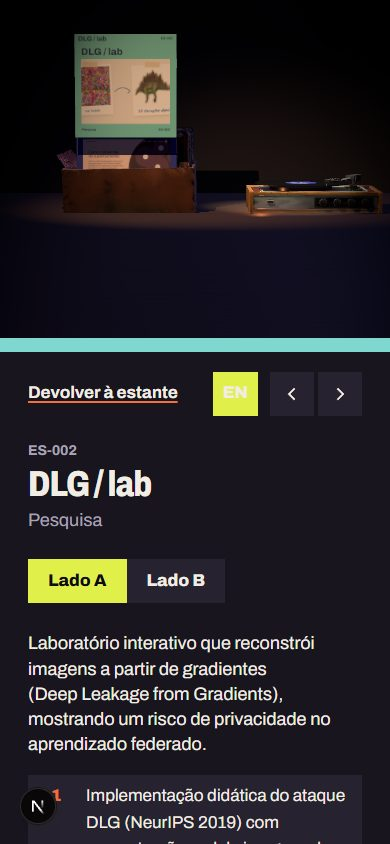
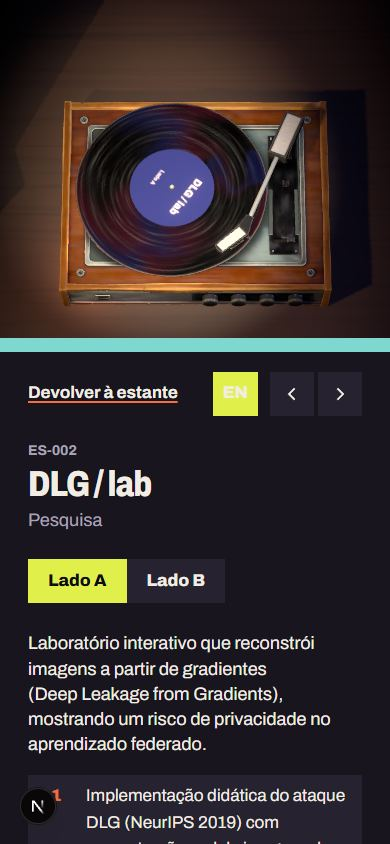
Overhead now-playing view, slower spin, cleaner return
- Once the vinyl lands and spins, the camera rises over the turntable and
  frames it beside the liner notes (above the sheet on phones); choosing
  another record brings it back down for the swap
- Record spins at 1.7 rad/s so the label stays readable
- After a return the vinyl rides hidden behind its sleeve, so lifting the
  sleeve to browse no longer drags it through the cover; a still-browsed
  record ends its return already pulled up in its slot

diff --git a/src/ui/records/ShelfScene.tsx b/src/ui/records/ShelfScene.tsx
@@ -31,7 +31,21 @@ const stage = {
   crateFront: 0.4,
   crateTop: 0.45,
   platter: new THREE.Vector3(DECK.x, 0.3, DECK.z),
+  /** The turntable's bounds in the scene, for the overhead "now playing" view. */
+  deck: new THREE.Box3(
+    new THREE.Vector3(DECK.x - 0.7, 0, DECK.z - 0.5),
+    new THREE.Vector3(DECK.x + 0.7, 0.3, DECK.z + 0.5),
+  ),
 };
+
+/**
+ * Turntable speed, rad/s. Slower than a real 33⅓ rpm (3.5 rad/s): about 16 rpm,
+ * so it still reads as turning but the label stays readable.
+ */
+const SPIN = 1.7;
+
+/** When the vinyl has landed and spins (the play timeline's last phase ends at 2.3s). */
+const SPINNING_AFTER = 2.5;
 
 const FLAT = new THREE.Quaternion();
 const FLIPPED = new THREE.Quaternion().setFromEuler(new THREE.Euler(Math.PI, 0, 0));
@@ -251,6 +265,9 @@ function Record({
     const discInLiftedQ = liftedQ.clone().multiply(UPRIGHT);
     // On the way back the sleeve comes down straight into its own slot.
     const aboveRest = rest.position.clone().add(new THREE.Vector3(0, 0.78, 0));
+    // Pulled up for a look: slid up along its own lean, within its slot (lifting straight up
+    // would tip a leaning sleeve forward through the records in front of it).
+    const browsePos = rest.position.clone().add(new THREE.Vector3(0, 0.36, 0).applyQuaternion(rest.quaternion));
     return {
       restQ,
       liftedPos,
@@ -261,6 +278,7 @@ function Record({
       outPos,
       discInLiftedQ,
       aboveRest,
+      browsePos,
     };
   }, [rest]);
   const scratch = useMemo(() => ({ v: new THREE.Vector3(), q: new THREE.Quaternion() }), []);
@@ -294,7 +312,9 @@ function Record({
       s.position.lerpVectors(poses.displayPos, poses.liftedPos, r1);
       s.quaternion.slerpQuaternions(poses.displayQ, poses.liftedQ, r1);
       if (r4 > 0) {
-        s.position.lerpVectors(poses.liftedPos, poses.aboveRest, r4).lerp(rest.position, r5);
+        s.position
+          .lerpVectors(poses.liftedPos, poses.aboveRest, r4)
+          .lerp(hovered ? poses.browsePos : rest.position, r5);
         s.quaternion.slerpQuaternions(poses.liftedQ, poses.restQ, r4);
       }
 
@@ -306,12 +326,8 @@ function Record({
       }
       if (t > 2.3) {
         returnAt.current = null;
-        // Home: the vinyl rides inside the sleeve, hidden, so it doesn't reappear and fly in.
-        if (d) {
-          d.position.copy(s.position);
-          d.quaternion.copy(s.quaternion).multiply(UPRIGHT);
-          d.visible = false;
-        }
+        // Home: hidden behind the sleeve; the resting branch keeps it there.
+        if (d) d.visible = false;
       }
       frame.invalidate();
       return;
@@ -320,20 +336,30 @@ function Record({
     if (!playing) {
       // Back in the crate; a hovered record is pulled half out so its cover shows.
       scratch.v.copy(rest.position);
-      // Slid up along its own lean, within its slot, so the records in front still hide its
-      // lower half (lifting straight up would tip a leaning sleeve forward through them).
-      if (hovered) scratch.v.add(new THREE.Vector3(0, 0.36, 0).applyQuaternion(rest.quaternion));
+      if (hovered) scratch.v.copy(poses.browsePos);
       const k = reducedMotion ? 1 : damp(delta, hovered ? 12 : 7);
       s.position.lerp(scratch.v, k);
       s.quaternion.slerp(poses.restQ, k);
       let moving = s.position.distanceTo(scratch.v) > EPS || s.quaternion.angleTo(poses.restQ) > EPS;
       if (d) {
-        // The vinyl slips back into its sleeve before it disappears.
-        const kd = reducedMotion ? 1 : damp(delta, 9);
-        d.position.lerp(s.position, kd);
-        d.quaternion.slerp(scratch.q.copy(s.quaternion).multiply(UPRIGHT), kd);
-        d.visible = d.position.distanceTo(s.position) > 0.03;
-        moving ||= d.visible;
+        // The vinyl's place is just behind the sleeve's back, hidden by it.
+        scratch.q.copy(s.quaternion);
+        scratch.v.copy(BEHIND_SLEEVE).applyQuaternion(scratch.q).add(s.position);
+        scratch.q.multiply(UPRIGHT);
+        if (d.visible && !reducedMotion) {
+          // Put back before it ever landed (play cancelled mid-flight): it eases home, then hides.
+          const kd = damp(delta, 9);
+          d.position.lerp(scratch.v, kd);
+          d.quaternion.slerp(scratch.q, kd);
+          d.visible = d.position.distanceTo(scratch.v) > 0.03;
+          moving ||= d.visible;
+        } else {
+          // Already home: it rides along with the sleeve, out of sight, so lifting the
+          // sleeve to browse never drags a lagging vinyl through its cover.
+          d.position.copy(scratch.v);
+          d.quaternion.copy(scratch.q);
+          d.visible = false;
+        }
       }
       if (moving) frame.invalidate();
       else if (withDisc) onSettled(record.id);
@@ -366,7 +392,7 @@ function Record({
       }
       d.visible = t > 0.5;
     }
-    if (spinner.current && p3 >= 1 && !reducedMotion) spinner.current.rotation.y -= step(delta) * 3.5; // 33⅓ rpm
+    if (spinner.current && p3 >= 1 && !reducedMotion) spinner.current.rotation.y -= step(delta) * SPIN;
     // A playing record keeps turning, so the loop runs while it plays (and stops when it is put away).
     if (!reducedMotion || t < 0.1) frame.invalidate();
   });
@@ -573,6 +599,8 @@ function Deck({ playing, reducedMotion }: { playing: boolean; reducedMotion: boo
   useLayoutEffect(() => {
     parts.current = { pivot: deck.pivot };
     stage.platter.set(DECK.x, deck.platterY, DECK.z);
+    deck.scene.updateWorldMatrix(true, true);
+    stage.deck.setFromObject(deck.scene);
     vinyl.geometry = deck.vinylGeometry;
     vinyl.material = deck.vinylMaterial as THREE.Material;
     vinyl.half = deck.vinylHalf;
@@ -704,6 +732,8 @@ function CameraRig({
   const look = useRef(new THREE.Vector3(0, 0.5, 0));
   const goalPos = useRef(new THREE.Vector3());
   const goalLook = useRef(new THREE.Vector3());
+  /** Which record the camera last saw chosen, and when: it waits for the vinyl to land. */
+  const chosen = useRef<{ id: string | null; at: number }>({ id: null, at: 0 });
 
   useEffect(() => {
     const onMove = (e: PointerEvent) => {
@@ -721,7 +751,25 @@ function CameraRig({
     const wide = aspect >= 1.2;
     const pos = goalPos.current;
     const target = goalLook.current;
-    if (selected) {
+    if (selected !== chosen.current.id) chosen.current = { id: selected, at: frame.clock.elapsedTime };
+    const spinning =
+      selected !== null && (reducedMotion || frame.clock.elapsedTime - chosen.current.at > SPINNING_AFTER);
+    let speed = 2.4;
+    if (spinning) {
+      // Once the record turns, rise over the turntable and look down on it, framed in the
+      // part of the screen the notes leave free (left of the panel, or above the sheet).
+      const c = stage.deck.getCenter(new THREE.Vector3());
+      const s = stage.deck.getSize(new THREE.Vector3());
+      const freeW = panel.side === "right" ? 1 - panel.share : 1;
+      const freeH = panel.side === "bottom" ? 1 - panel.share : 1;
+      const tilt = 0.3; // a little toward the room, so it reads as a turntable and not a plan
+      const h = Math.max((s.x * 1.3) / (2 * tan * aspect * freeW), (s.z * 1.45) / (2 * tan * freeH));
+      const dx = panel.side === "right" ? (2 * h * tan * aspect * panel.share) / 2 : 0;
+      const dz = panel.side === "bottom" ? (2 * h * tan * panel.share) / 2 : 0;
+      target.set(c.x + dx, c.y, c.z + dz);
+      pos.set(c.x + dx, c.y + h, c.z + dz + h * tilt);
+      speed = 1.7;
+    } else if (selected) {
       // Frame the crate front and the deck in the part of the screen the notes leave free.
       const free = panel.side === "right" ? 1 - panel.share : 1;
       const z = Math.max(
@@ -747,7 +795,7 @@ function CameraRig({
         pos.y -= pointer.current.y * 0.06;
       }
     }
-    const k = reducedMotion ? 1 : damp(delta, 2.4);
+    const k = reducedMotion ? 1 : damp(delta, speed);
     camera.position.lerp(pos, k);
     // Fog fades the room behind the stage, measured from wherever the camera is
     // (a phone frames the scene from much further back).
@@ -759,7 +807,8 @@ function CameraRig({
     }
     look.current.lerp(target, k);
     camera.lookAt(look.current);
-    if (camera.position.distanceTo(pos) > 2e-3 || look.current.distanceTo(target) > 2e-3) frame.invalidate();
+    const waiting = selected !== null && !spinning;
+    if (waiting || camera.position.distanceTo(pos) > 2e-3 || look.current.distanceTo(target) > 2e-3) frame.invalidate();
   });
   return null;
 }

diff --git a/DESIGN.md b/DESIGN.md
@@ -118,7 +118,7 @@ Seven sleeve colourways (ink, seafoam, orange, lilac, lime, paper, graphite), ea
 - **In the crate:** the scan's block of LPs is cut out of the mesh offline (triangles right of the Ellington sleeve, inside the walls and above the floor), so the crate holds only our sleeves plus the scanned "Mood Ellington" sleeve leaning against the left wall. Our sleeves stand toward the front and a little right of centre.
 - **Turntable:** starts empty. The model's black platter disc is recoloured as a dark felt mat, so the empty platter doesn't read as a hole.
 - **Overview (desktop):** intro top-left, crate centred-right and turned toward the deck, deck at the right. The camera looks down from above, so the sleeves (standing low in the crate, each a little further back and higher) show their title strips like a crate you flip through. It follows the pointer slightly.
-- **Playing:** the liner notes take 44vw on the right. The camera frames the crate (with the played sleeve standing tall in it) and the spinning deck in the free part.
+- **Playing:** the liner notes take 44vw on the right. While the record is taken out and put on the deck, the camera frames the crate and the deck in the free part. Once it spins (2.5s after it was chosen), the camera rises over the turntable and looks down on it, tilted a little toward the room, framed in the free part: left of the notes on desktop, above the sheet on phones. Choosing another record brings the camera back down for the swap, then up again.
 - **Phones:** the intro sits on top and the scene below. A row of sleeve links at the bottom acts as the crate's accessible menu. The liner notes become a 60svh bottom sheet, and the camera frames the scene above it.
 - **Flat (no WebGL or no script):** intro, then every record's liner notes with both sides.
 
@@ -129,8 +129,8 @@ Depth is physical and only in the 3D scene: a shadow-casting lamp, a rim light, 
 ## Motion
 
 - Browse: one record at a time slides up about a third of its height along its own lean (so the records in front still hide its lower half). It is chosen by pointing at it in the crate, by the wheel over the scene, by the arrow keys, or by the arrows of the crate control, and stays up until another is chosen. Enter or the control's Play button plays it. Hit areas stay at the rest pose, and the browsed record's grows over its raised cover, so a click lands on the record you see.
-- Play, in phases: the sleeve lifts with the vinyl hidden just behind its back (0–0.6s); the vinyl slides out of the sleeve's open side, in the sleeve's plane (0.6–1.25s); it arcs to the platter and lays flat (1.25–2.3s, flipped for Side B); the sleeve settles back into the crate standing tall (1.4–2.2s); then the record spins at 3.5 rad/s and the tone arm swings in.
-- Return (Esc, back, or another record): the sleeve rises from its "now playing" spot; the vinyl arcs off the platter to the sleeve's open side (0–0.85s) and slides back in behind the cover (0.85–1.4s); the sleeve moves over its slot and drops straight down into it (1.35–2.3s).
+- Play, in phases: the sleeve lifts with the vinyl hidden just behind its back (0–0.6s); the vinyl slides out of the sleeve's open side, in the sleeve's plane (0.6–1.25s); it arcs to the platter and lays flat (1.25–2.3s, flipped for Side B); the sleeve settles back into the crate standing tall (1.4–2.2s); then the record spins at 1.7 rad/s (about 16 rpm, half a real 33⅓, so the label stays readable) and the tone arm swings in.
+- Return (Esc, back, or another record): the sleeve rises from its "now playing" spot; the vinyl arcs off the platter to the sleeve's open side (0–0.85s) and slides back in behind the cover (0.85–1.4s); the sleeve moves over its slot and drops straight down into it (1.35–2.3s), or stops pulled up in its slot if it is still the browsed record. The vinyl then rides hidden behind its sleeve until it unmounts, so browsing never drags it through the cover.
 - `prefers-reduced-motion`: poses jump, the camera cuts, nothing drifts.
 
 ## Performance
